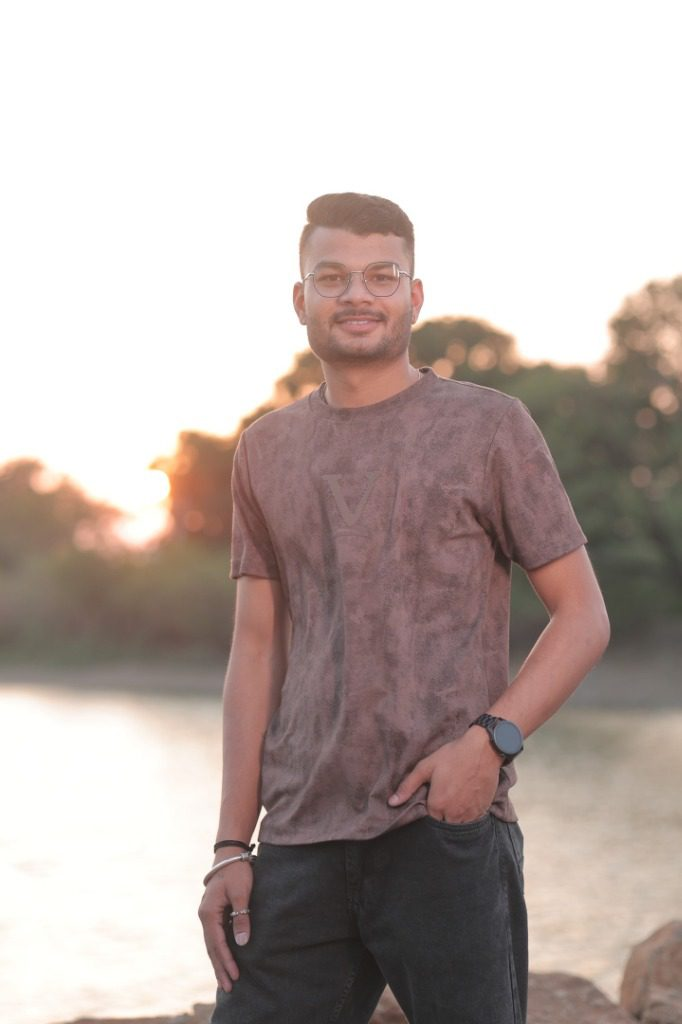
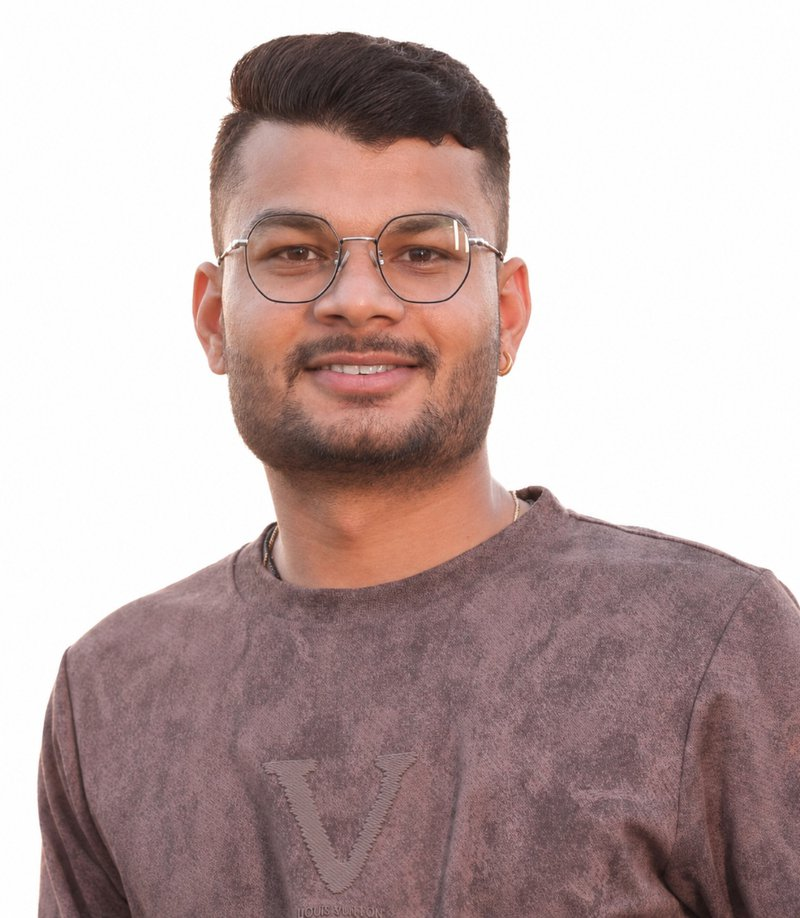
Update

diff --git a/frontend/src/pages/Login.tsx b/frontend/src/pages/Login.tsx
@@ -29,6 +29,7 @@ export default function Login() {
 
   useEffect(() => {
     let active = true
+
     const initGoogleSignIn = () => {
       if (!active) return
       if (window.google?.accounts?.id) {
@@ -37,6 +38,8 @@ export default function Login() {
         if (!window.__google_gsi_initialized) {
           window.google.accounts.id.initialize({
             client_id: clientId,
+            ux_mode: "popup",
+            use_fedcm_for_prompt: true,
             callback: async (response: any) => {
               if (response.credential) {
                 setLoading(true)

diff --git a/frontend/vite.config.ts b/frontend/vite.config.ts
@@ -14,14 +14,15 @@ export default defineConfig({
       "@": path.resolve(__dirname, "./src"),
     },
   },
+
   server: {
     headers: {
-      "Cross-Origin-Opener-Policy": "unsafe-none",
+      "Cross-Origin-Opener-Policy": "same-origin-allow-popups",
     },
   },
   preview: {
     headers: {
-      "Cross-Origin-Opener-Policy": "unsafe-none",
+      "Cross-Origin-Opener-Policy": "same-origin-allow-popups",
     },
   },
   build: {

diff --git a/backend/app/main.py b/backend/app/main.py
@@ -61,7 +61,7 @@ async def security_headers_middleware(request: Request, call_next):
     response = await call_next(request)
     response.headers.setdefault("X-Content-Type-Options", "nosniff")
     response.headers.setdefault("X-Frame-Options", "DENY")
-    response.headers.setdefault("Cross-Origin-Opener-Policy", "unsafe-none")
+    response.headers.setdefault("Cross-Origin-Opener-Policy", "same-origin-allow-popups")
     response.headers.setdefault("Referrer-Policy", "strict-origin-when-cross-origin")
     response.headers.setdefault("Permissions-Policy", "camera=(), microphone=(), geolocation=()")
     response.headers.setdefault("Strict-Transport-Security", "max-age=63072000; includeSubDomains")
